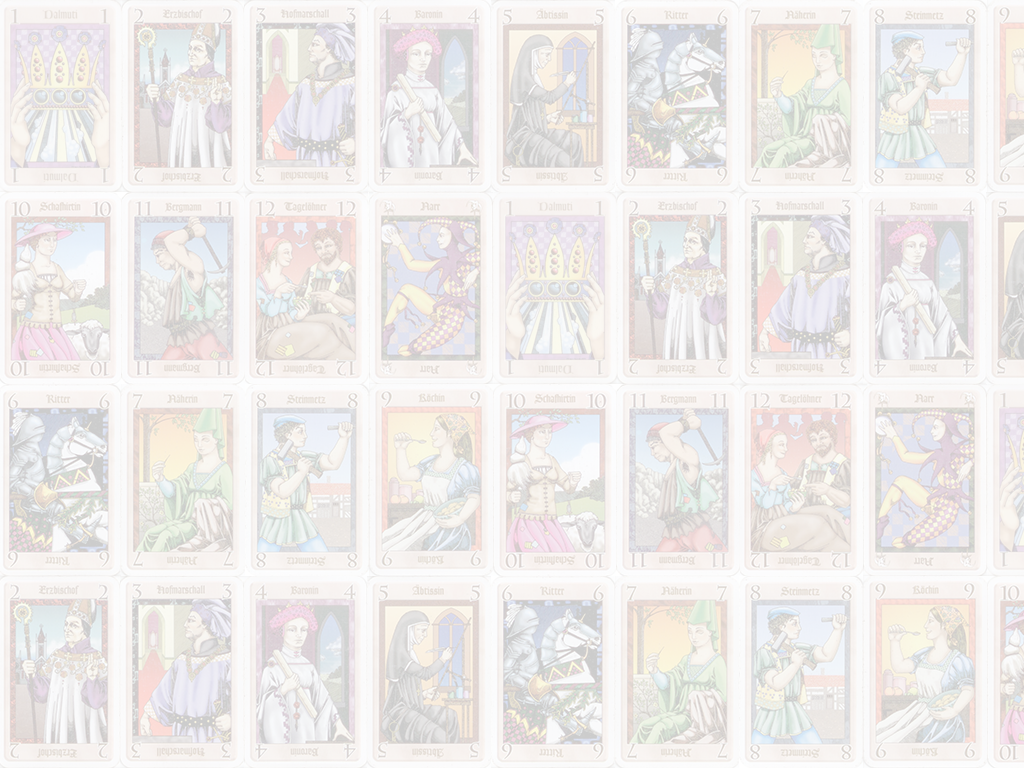
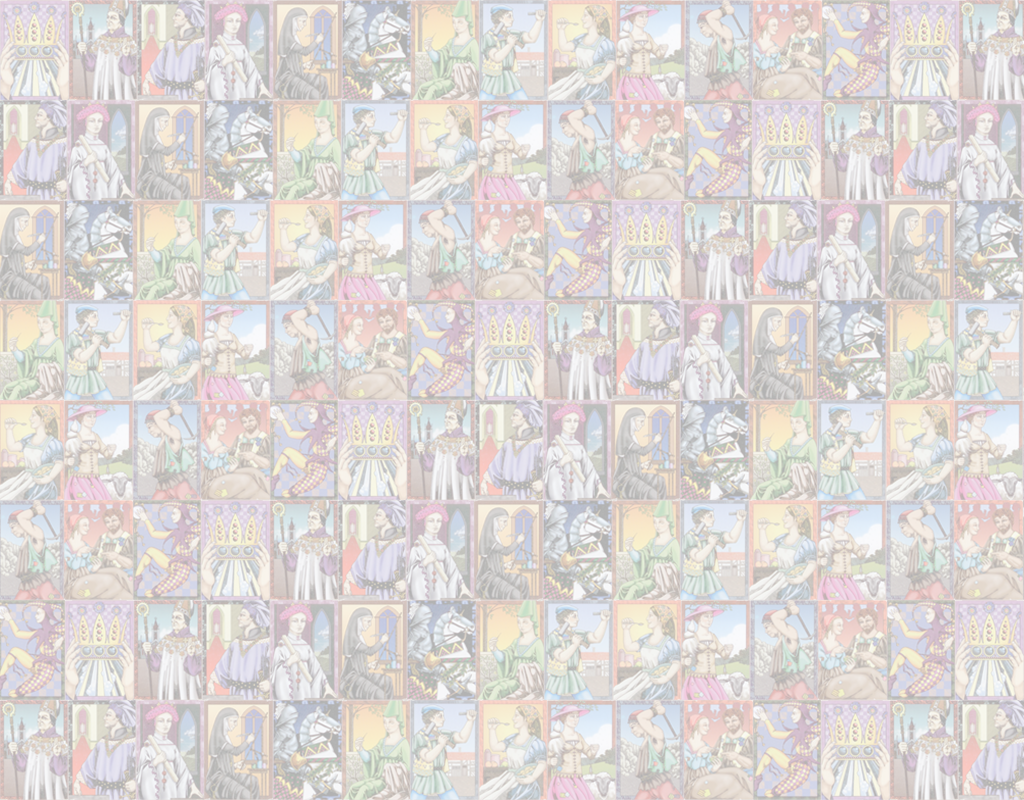
Login: background update Swap: background update

diff --git a/src/dalmuti/client/Swap.java b/src/dalmuti/client/Swap.java
@@ -88,7 +88,7 @@ public class Swap extends JFrame implements ActionListener{
 		//set Background Image
 		getContentPane().setLayout(new BorderLayout());
 		((JPanel)getContentPane()).setOpaque(false);
-		ImageIcon background = new ImageIcon(getClass().getResource("/dalmuti/image/narrbackground.jpg"));
+		ImageIcon background = new ImageIcon(getClass().getResource("/dalmuti/image/narrbackground.png"));
 		lbBackground = new JLabel(background);
 		getLayeredPane().add(lbBackground, new Integer(Integer.MIN_VALUE));
 		lbBackground.setBounds(0, 0, background.getIconWidth(), background.getIconHeight());
